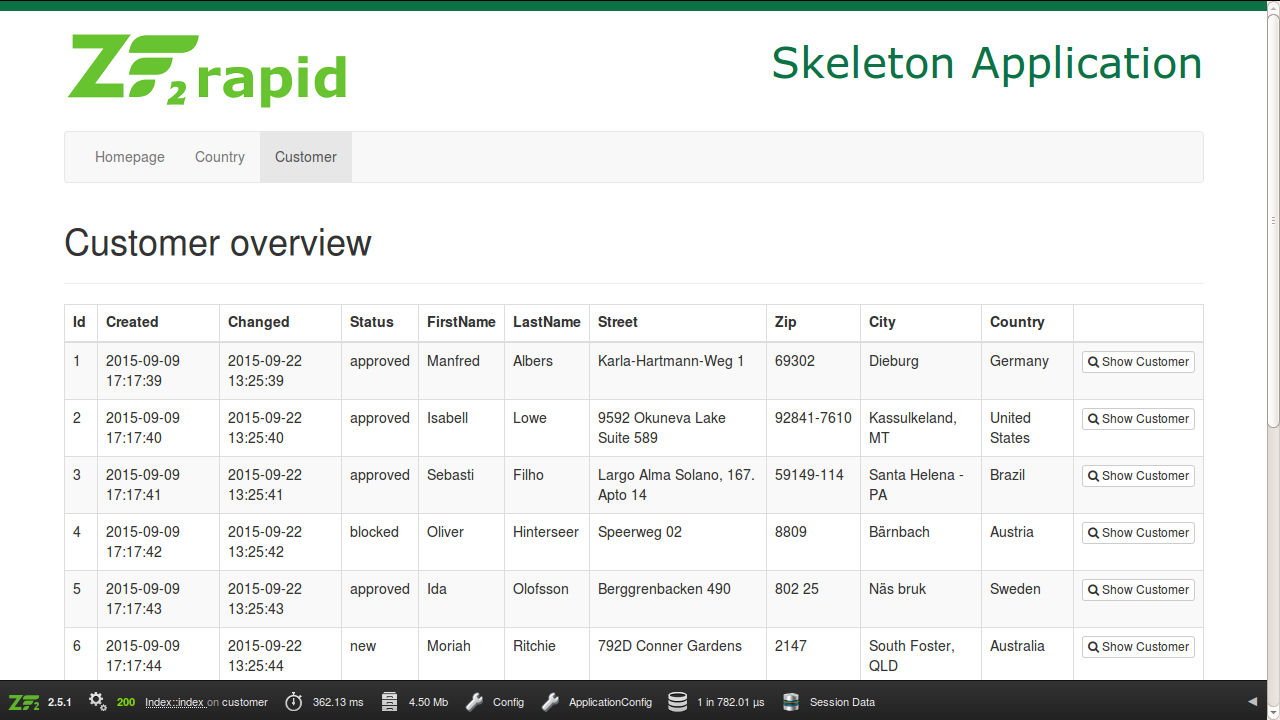
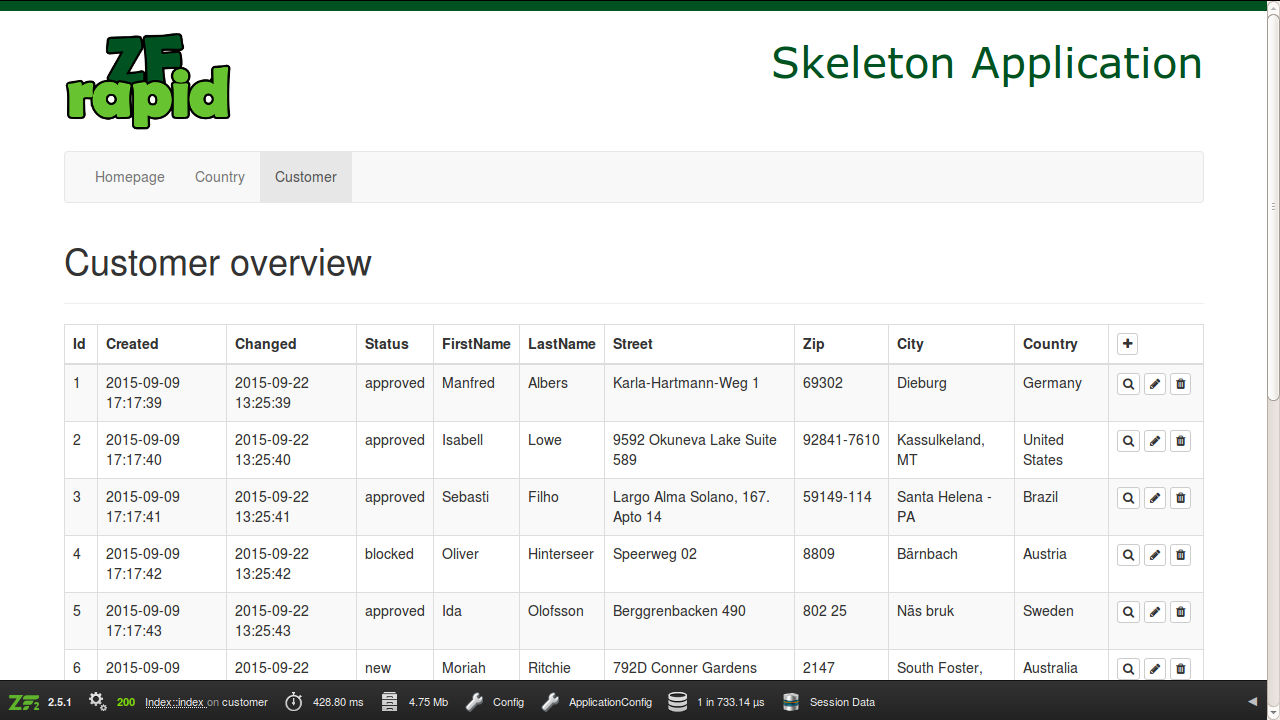
Updated CRUD screenshots

diff --git a/docs/tutorial-crud-create-application.md b/docs/tutorial-crud-create-application.md
@@ -532,9 +532,9 @@ look like this:
 
 ![Screen shot list customers](screen_new_customer_index.jpg)
 
-If you click on any `Show Customer` link your screen should look like this:
+If you click on any `Update Customer` link your screen should look like this:
 
-![Screen shot show customer](screen_new_customer_show.jpg)
+![Screen shot update customer](screen_new_customer_update.jpg)
 
 ## Create country application
 
